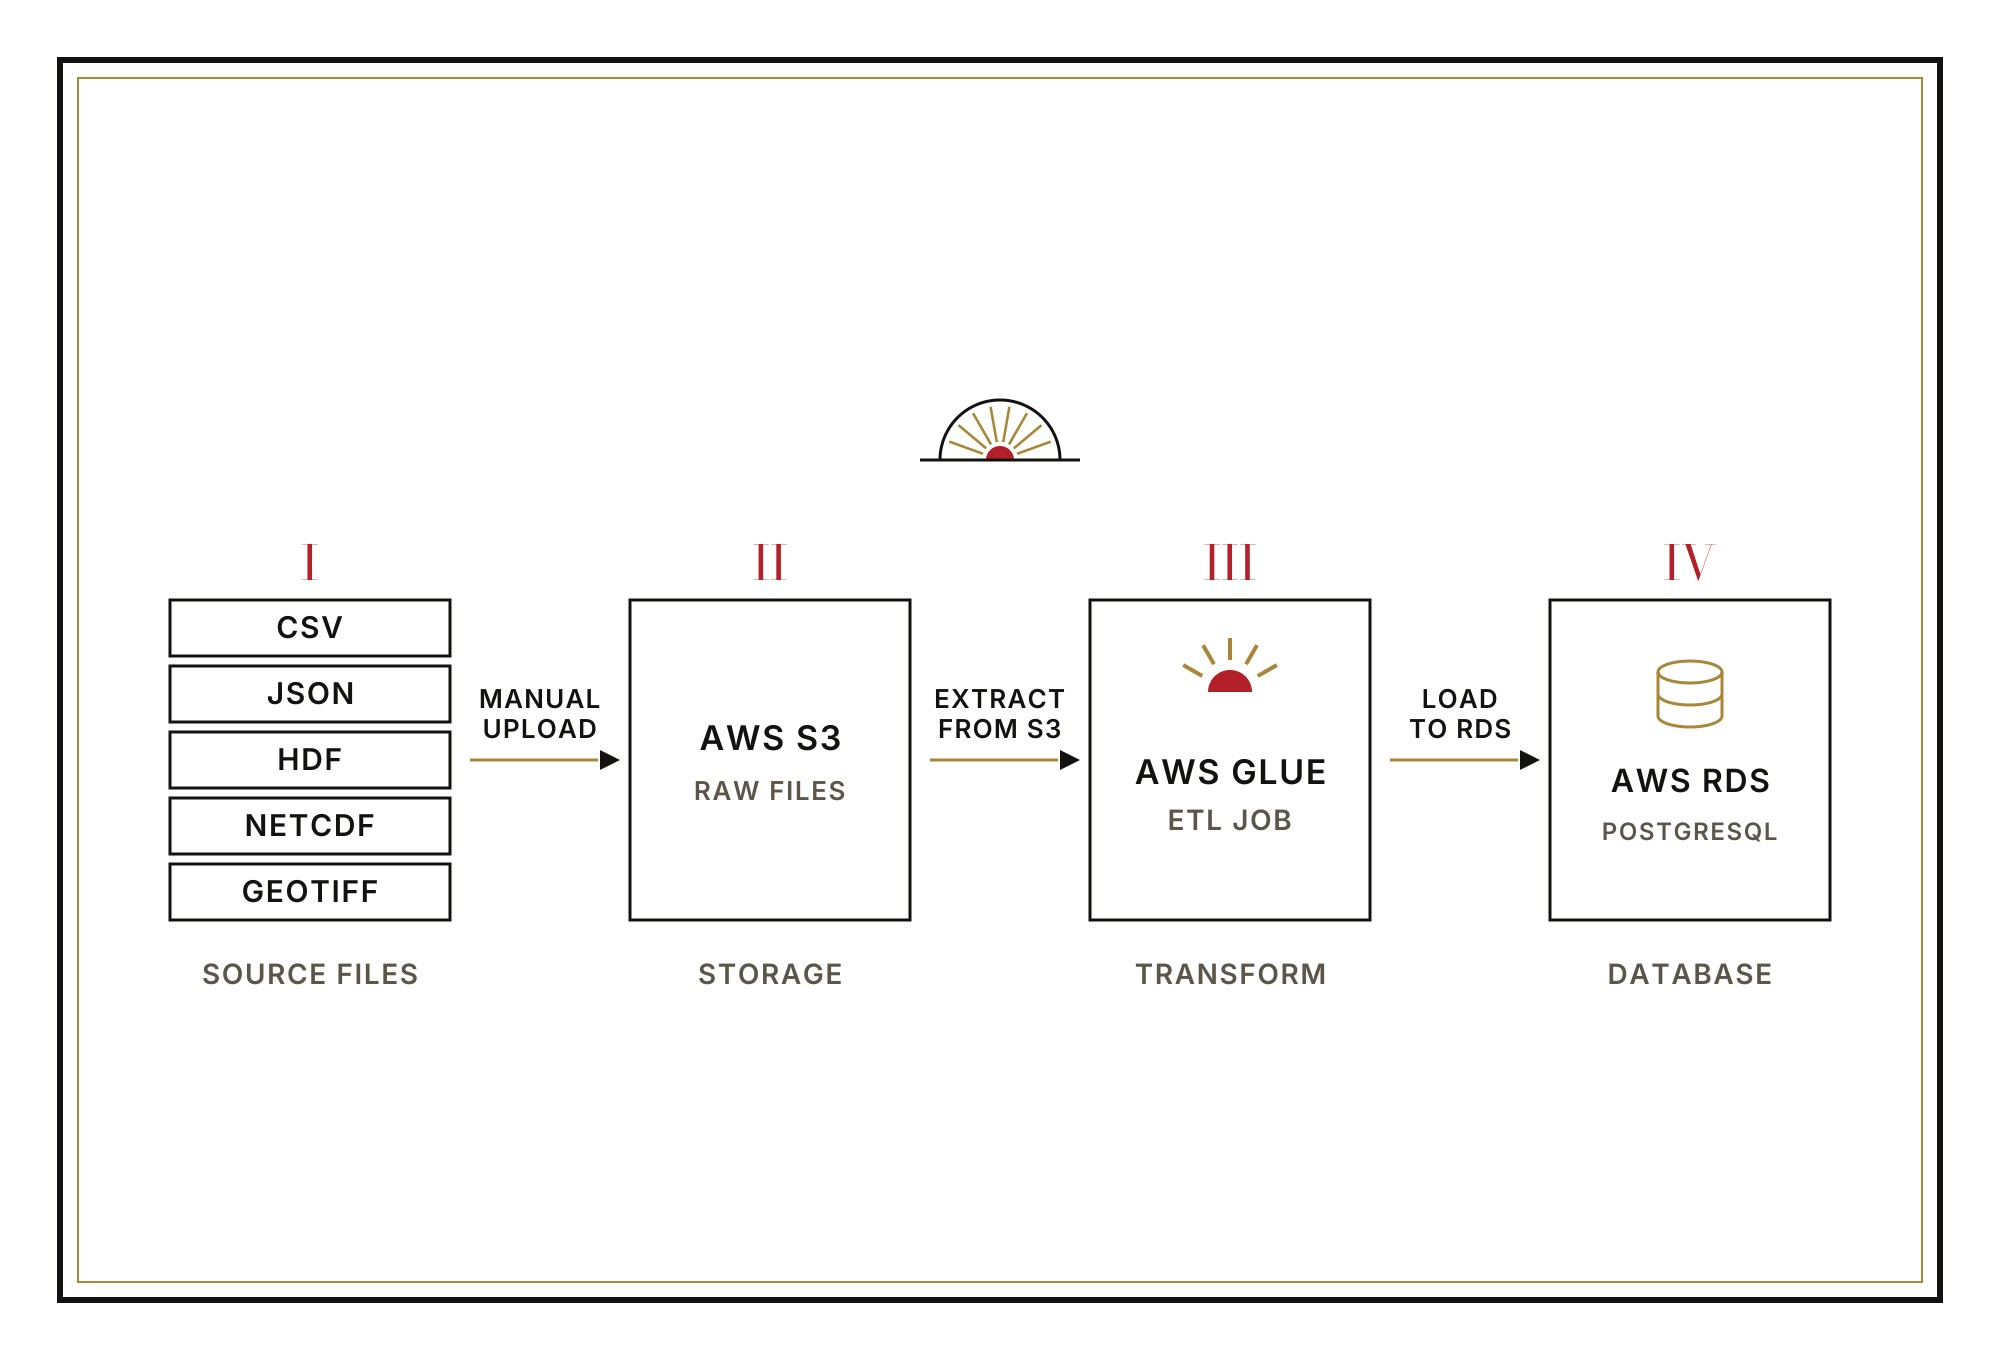
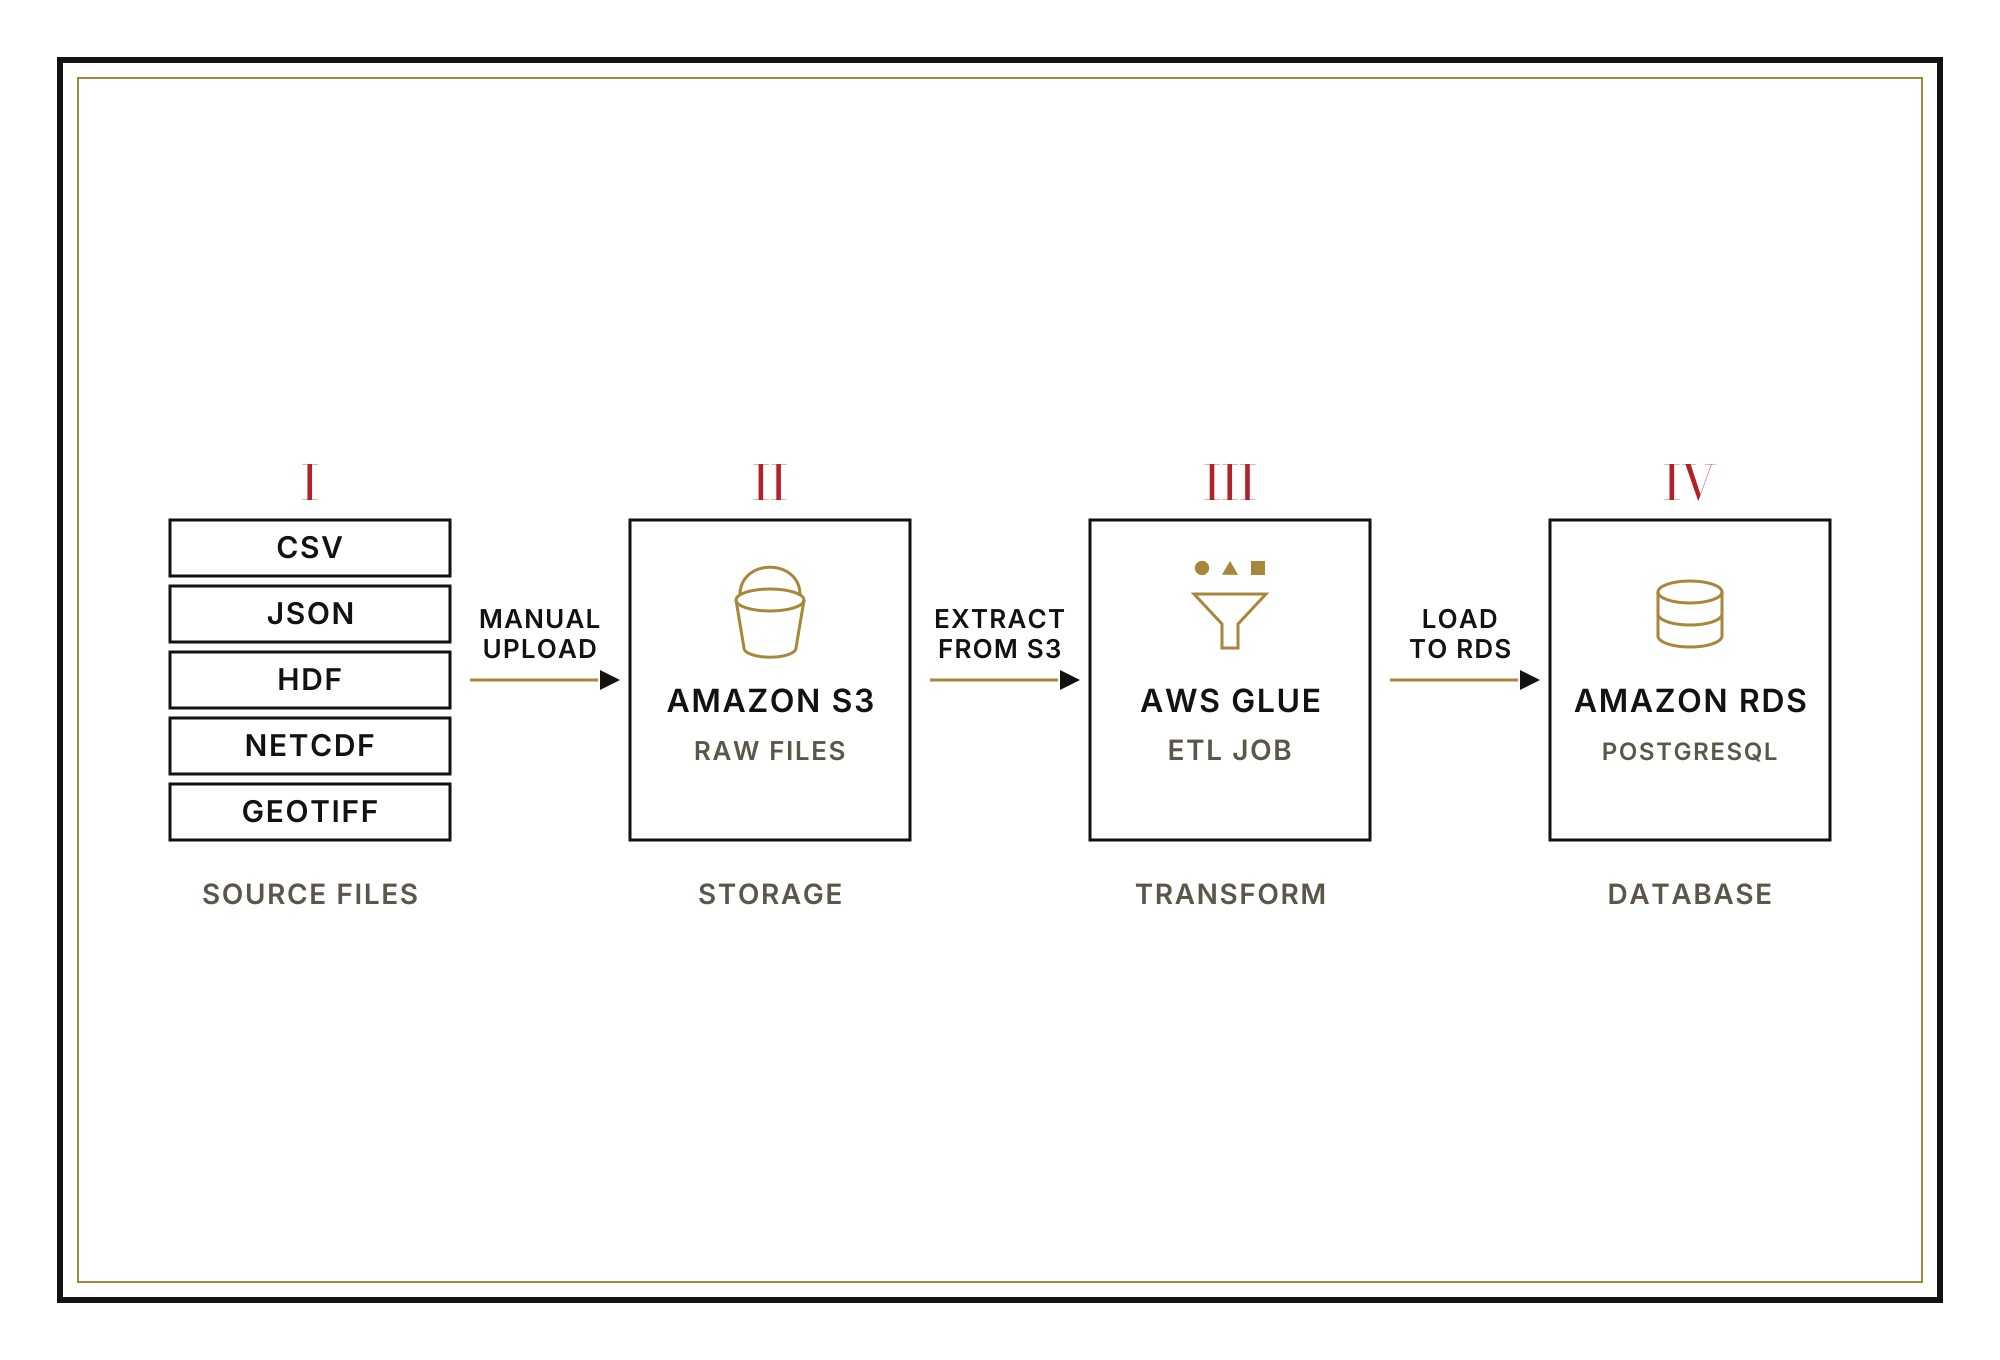
Updated Work page

diff --git a/work.html b/work.html
@@ -14,7 +14,7 @@
 <section class="intro"><div><div class="label red tag">Selected Work</div><h2 class="h xl">The Features</h2></div><div class="label mute" style="text-align:right">Three stories<br>Chosen, not collected</div></section>
 <section class="split c" id="f1"><a href="#"><figure class="frame inset natural" data-label="Current project 1 · hero"><img src="images/work/work-1.jpg" alt="Current project 1 · hero" onerror="this.parentNode.classList.add('missing');this.remove()"></figure></a><div><div class="label red tag">Feature I</div><h2 class="h xl">EPA Data ML, Analysis, &amp; Policy</h2><p class="p">[Long standfirst: the brief, the idea, the result.]</p><dl class="specs label"><dt>Role</dt><dd>N/A</dd><dt>Year</dt><dd>2026</dd><dt>Tools</dt><dd>Python</dd></dl></div></section>
 <section class="split d" id="f2"><div><div class="label red tag">Feature II</div><h2 class="h xl">Organization Impact Dashboard</h2><p class="p">[Long standfirst: the brief, the idea, the result.]</p><dl class="specs label"><dt>Role</dt><dd>Data Scientist</dd><dt>Year</dt><dd>2026</dd><dt>Tools</dt><dd>Python: Pandas, Bokeh</dd></dl></div><a href="#"><figure class="frame inset" style="--h:520px" data-label="Current project 2 · hero"><img src="images/work/work-2.jpg" alt="Current project 2 · hero" onerror="this.remove()"></figure></a></section>
-<section class="split c" id="f3"><a href="aws-etl-pipeline.html"><figure class="frame inset" style="--h:520px" data-label="Current project 3 · hero"><img src="images/work/work-3.jpg" alt="Current project 3 · hero" onerror="this.remove()"></figure><div><div class="label red tag">Feature III · Data Engineering</div><h2 class="h xl">AWS ETL Pipeline</h2><p class="p"></a>
+<section class="split c" id="f3"><a href="aws-etl-pipeline.html"><figure class="frame inset natural" data-label="Current project 3 · hero"><img src="images/work/work-3.jpg" alt="Current project 3 · hero" onerror="this.parentNode.classList.add('missing');this.remove()"></figure><div><div class="label red tag">Feature III · Data Engineering</div><h2 class="h xl">AWS ETL Pipeline</h2><p class="p"></a>
     A pipeline that collects subsurface geologic data from Slack, Dropbox and other sources, stores it in AWS S3, and uses AWS Glue to convert different formats (elevation rasters, well logs, geophysical model output and file inventories) into Parquet. The results load into a PostgreSQL database on AWS RDS, so the Data Visualization team can query everything with SQL from one place.
     </p><dl class="specs label"><dt>Role</dt><dd>Data Visualization Developer</dd><dt>Year</dt><dd>2026</dd><dt>Tools</dt><dd>Python, AWS: S3, Glue, RDS (PostgreSQL)</dd></dl></div></section>
 <section class="banner"><span>Looking for earlier work?</span><a class="btn" href="archive.html">Enter the Archive →</a></section>
